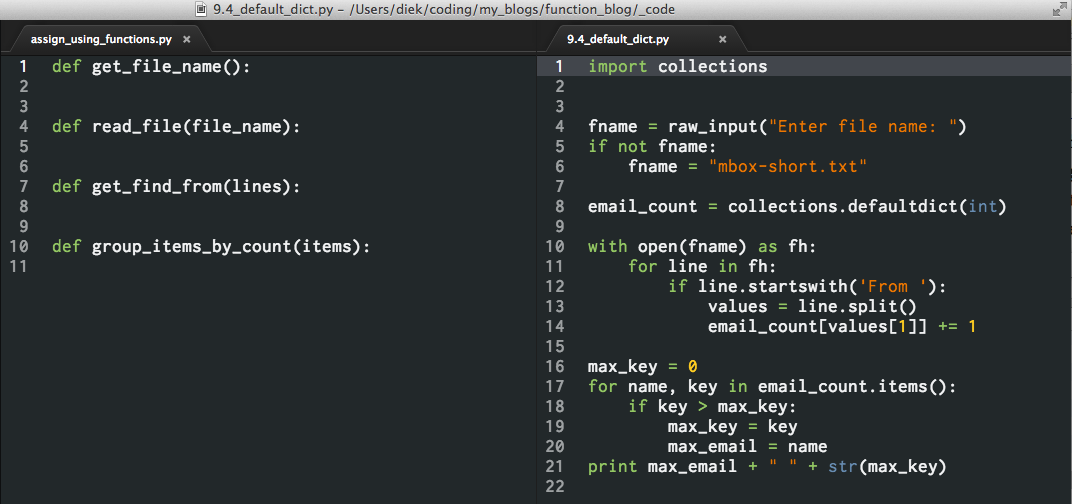
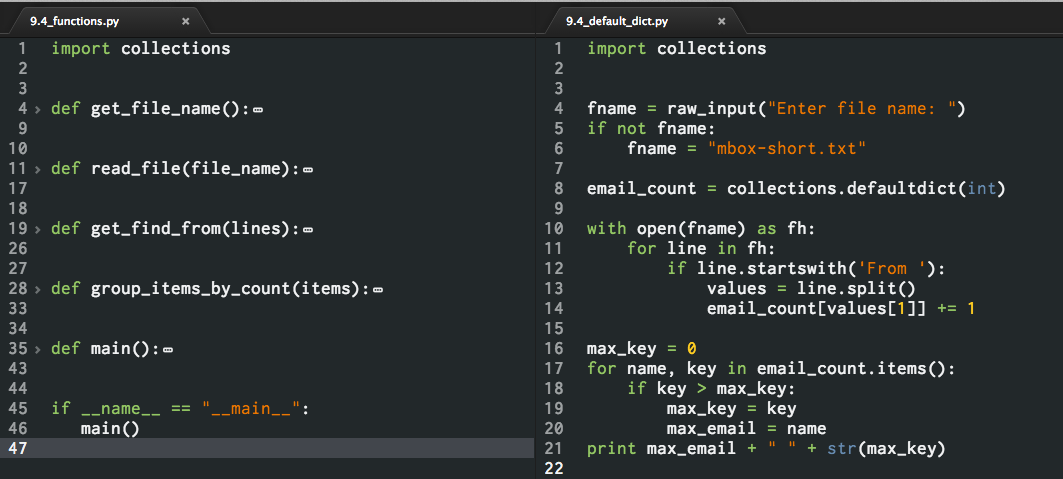
img update

Changed region(s): [[0.0, 0.0, 1.0, 0.9937], [0.9934, 0.3507, 1.0, 1.0], [0.2173, 0.8476, 0.2794, 0.8768]]

diff --git a/_code/9.4_functions.py b/_code/9.4_functions.py
@@ -1,0 +1,46 @@
+import collections
+
+
+def get_file_name():
+  file_name = raw_input("Enter file name: ")
+  if not file_name: #Rene Fleschenberg's comment
+    file_name = "mbox-short.txt"
+  return file_name
+
+
+def read_file(file_name):
+  lines = []
+  with open(file_name) as fh:
+    for line in fh:
+      lines.append(line)
+  return lines
+
+
+def get_find_from(lines):
+  from_emails = []
+  for line in lines:
+    if line.startswith('From '):
+      values = line.split()
+      from_emails.append(values[1])
+  return from_emails
+
+
+def group_items_by_count(items):
+  items_counts = collections.defaultdict(int)
+  for item in items:
+    items_counts[item] += 1
+  return items_counts
+
+
+def main():
+  file_name = get_file_name()
+  lines = read_file(file_name)
+  from_emails = get_from_fileds(lines)
+  emails_counts = group_items_by_count(from_emails)
+  # http://stackoverflow.com/questions/613183/sort-a-python-dictionary-by-value <3
+  max_email = sorted(emails_counts.iteritems(), key=operator.itemgetter(1))[-1]
+  print max_email[0] + " " + str(max_email[1])
+
+
+if __name__ == "__main__":
+   main()

diff --git a/python_functions.md b/python_functions.md
@@ -18,7 +18,8 @@ The term module can be somewhat confusing, from PyDocs 'A module is a file conta
 A function in python is the most basic object we can call in Python. Python has a number of built in functions, the one we are most familiar with would have to be `str(object='')` used in printing. Python allows us to create our own custom functions. [Tutorial Point](http://www.tutorialspoint.com/python/python_functions.htm) defines a function nicely as "a block of organized, reusable code that is used to perform a single, related action."
 
 ## Some Key Reasons to Use a Function
-1. **Isolate and Reduce Complexity**, by breaking a problem into smaller manageable parts. But a key part of this is readable code, using descriptive function names and using DocString to document the code.
+1. **Isolate and Reduce Complexity**, by breaking a problem into smaller manageable parts. But a key part of this is readable code, using descriptive function names and using DocString to document the code. Take assignment 9.4 for example. The problem was to prompt for a file, read the file, find lines starting with 'From ', create a dictionary to count e-mail addresses, then display the e-mail with the highest occurrence. Within a module I used 4 primary functions to solve this, in most cases shown on the group page we saw anywhere from 20 or more lines of code that simply started at the top and moved to the bottom, loops being the exception.   Using functions, we are not concerned with the inside, we just want to know does the function do what is required. If we look at the diagram, which is easier to understand? Four functions with descriptive names, or a wall of code. Again this is a simple assignment, imagine 500 or 10000 lines of code,  with no organization except for Python's code indentation. The function provides a logical method to organize code, and solve each part of the problem.
+![def_name_function](https://raw.githubusercontent.com/diek/function_blog/master/_images/function_straightlinecode.png)
 
 2. **Provide Abstraction to Code**, while this concept may sound complex, it is not, it essentially means that we separate the mechanics of what our code is doing from the actual use of the coded function. (A simple example of not abstracting code; in many of the assignments the values were hard coded into the code and stored in the python file. With abstraction this would not happen. Any values would be passed in, only when the function is called or invoked. More on that to come.)
 
